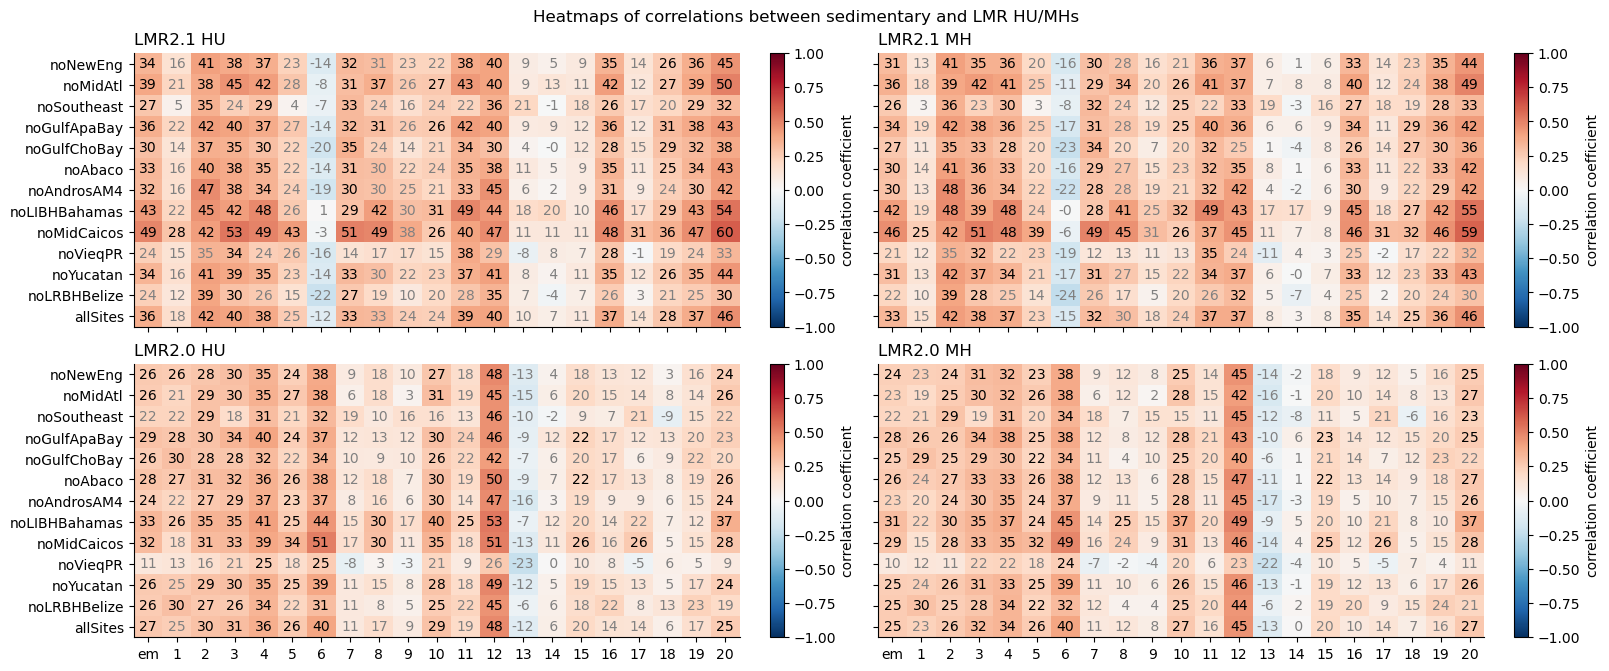
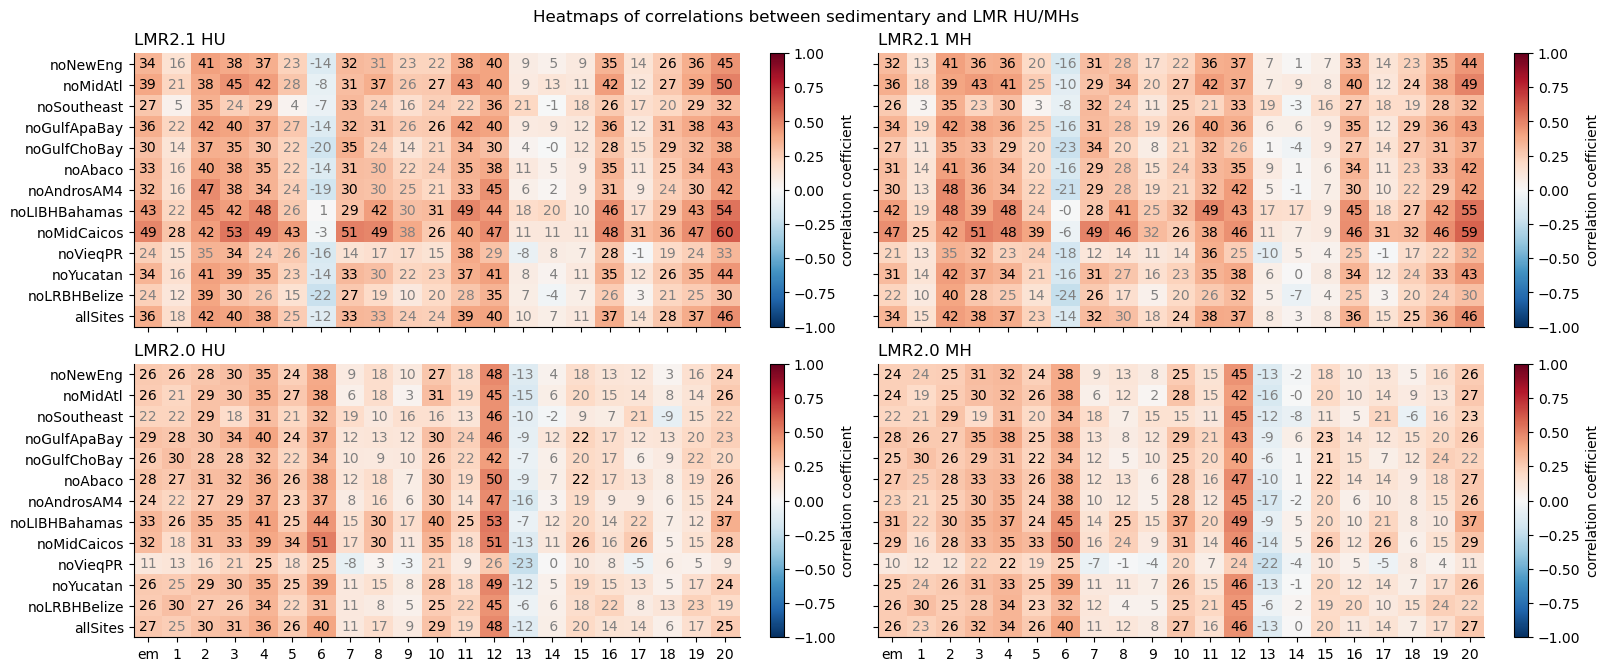
use LMR MH modeled without using CO2

Changed region(s): [[0.839, 0.5365, 0.8701, 0.5663], [0.7458, 0.8942, 0.7769, 0.924], [0.7458, 0.3875, 0.7769, 0.4173]]

diff --git a/LMHU/FigS_heatmaps_corr_liz_lmr.py b/LMHU/FigS_heatmaps_corr_liz_lmr.py
@@ -28,13 +28,14 @@ ds_lmr2019_hu = xr.open_dataset(ifile_cached)
 print('[loaded]:', ifile_cached, 'from', ifile)
 
 #ifile = 'data/corr_table/corr_table_sedimentHUnoCaySal_vs_LMR2019MH_850-1850.nc'
-ifile = 'data/corr_table/corr_table_sedimentMaxWyHUnoCaySal_vs_LMR2019MH_850-1850.nc' #wy 2023-09-28
+#ifile = 'data/corr_table/corr_table_sedimentMaxWyHUnoCaySal_vs_LMR2019MH_850-1850.nc' #wy 2023-09-28
+ifile = 'data/corr_table/corr_table_sedimentMaxWyHUnoCaySal_vs_LMR2019MHnoCO2_850-1850.nc' #wy 2023-11-10, use MHnoCO2 instead of MH
 if pyleoclim: ifile = ifile.replace('.nc', '_pyleoclim.nc')
 #print(f'{ifile = }')
 #ds_lmr2019_mh = xr.open_dataset(ifile)
 ifile_cached = __file__.replace('.py', '__lmr2019mh.nc')
 if pyleoclim: ifile_cached = ifile_cached.replace('.nc', '_pyleoclim.nc')
-if not os.path.exists(ifile_cached): run_shell(f'cp {ifile} {ifile_cached}')
+if not os.path.exists(ifile_cached) or 'od' in sys.argv: run_shell(f'cp {ifile} {ifile_cached}')
 ds_lmr2019_mh = xr.open_dataset(ifile_cached)
 print('[loaded]:', ifile_cached, 'from', ifile)
 
@@ -50,13 +51,14 @@ ds_lmr2018_hu = xr.open_dataset(ifile_cached)
 print('[loaded]:', ifile_cached, 'from', ifile)
 
 #ifile = 'data/corr_table/corr_table_sedimentHUnoCaySal_vs_LMR2018MH_850-1850.nc'
-ifile = 'data/corr_table/corr_table_sedimentMaxWyHUnoCaySal_vs_LMR2018MH_850-1850.nc' #wy 2023-09-28
+#ifile = 'data/corr_table/corr_table_sedimentMaxWyHUnoCaySal_vs_LMR2018MH_850-1850.nc' #wy 2023-09-28
+ifile = 'data/corr_table/corr_table_sedimentMaxWyHUnoCaySal_vs_LMR2018MHnoCO2_850-1850.nc' #wy 2023-11-10
 if pyleoclim: ifile = ifile.replace('.nc', '_pyleoclim.nc')
 #print(f'{ifile = }')
 #ds_lmr2018_mh = xr.open_dataset(ifile)
 ifile_cached = __file__.replace('.py', '__lmr2018mh.nc')
 if pyleoclim: ifile_cached = ifile_cached.replace('.nc', '_pyleoclim.nc')
-if not os.path.exists(ifile_cached): run_shell(f'cp {ifile} {ifile_cached}')
+if not os.path.exists(ifile_cached) or 'od' in sys.argv: run_shell(f'cp {ifile} {ifile_cached}')
 ds_lmr2018_mh = xr.open_dataset(ifile_cached)
 print('[loaded]:', ifile_cached, 'from', ifile)
 

diff --git a/LMHU/data/corr_table_v20220711/corr_table_sedimentHU_LMR.py b/LMHU/data/corr_table_v20220711/corr_table_sedimentHU_LMR.py
@@ -20,6 +20,7 @@ if __name__ == '__main__':
 #params from sys.argv
 lmr = 2018 if len(sys.argv)>1 and '2018' in sys.argv[1:] else 2019
 daname = 'MH' if len(sys.argv)>1 and 'MH' in sys.argv[1:] else 'HU'
+daname = 'MHnoCO2' if len(sys.argv)>1 and 'MHnoCO2' in sys.argv[1:] else daname
 wCaySal = True if len(sys.argv)>1 and 'wCaySal' in sys.argv[1:] else False
 noCaySal_noCaicos = True if len(sys.argv)>1 and 'noCaySal_noCaicos' in sys.argv[1:] else False
 pyleoclim = True if len(sys.argv)>1 and 'pyleoclim' in sys.argv[1:] else False
